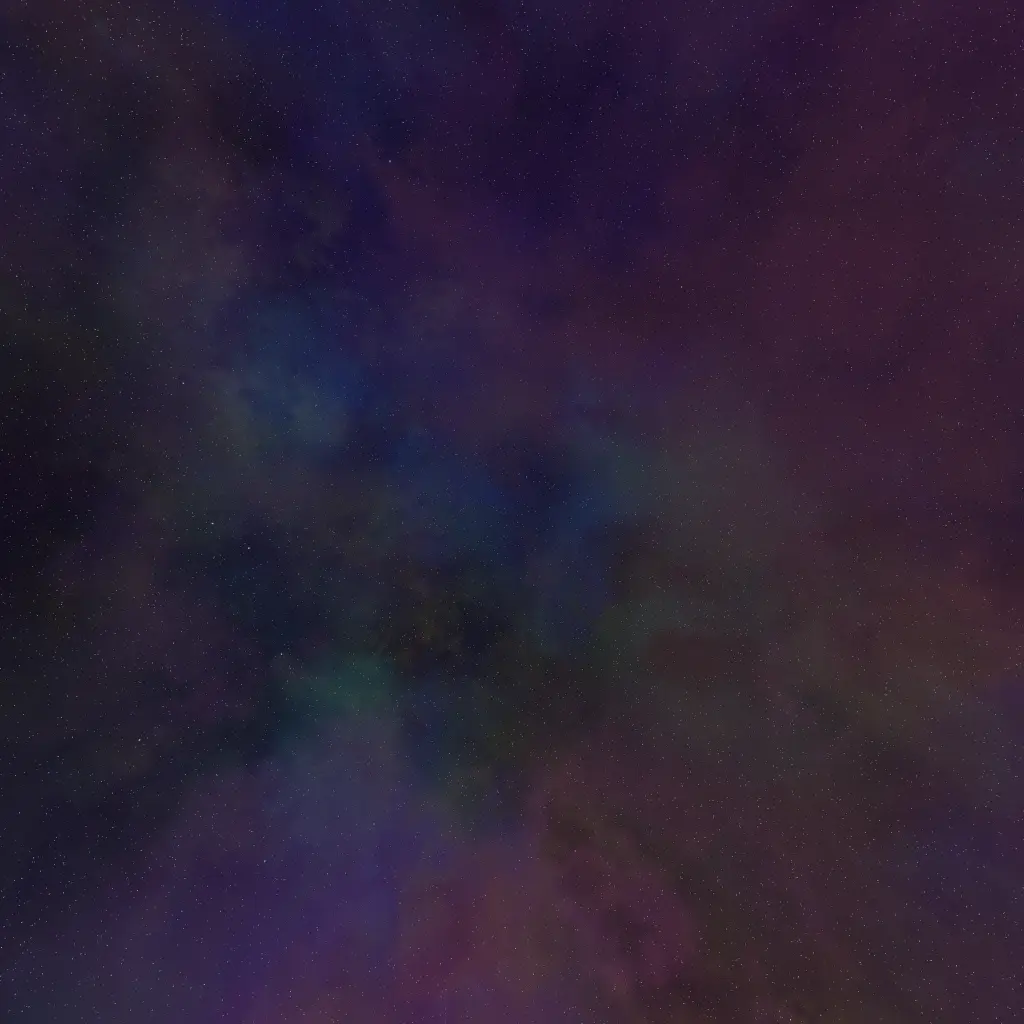
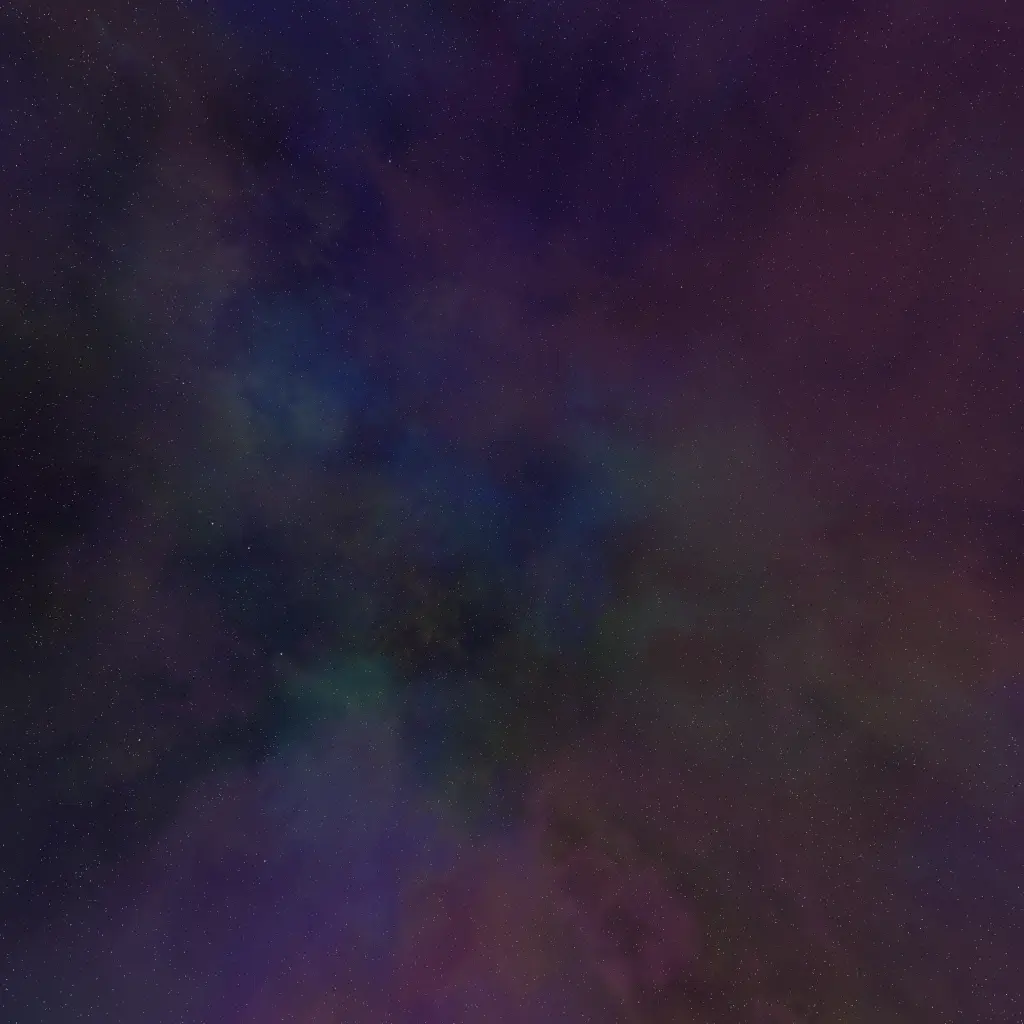
Removed The Sun from the BG and added contact info

diff --git a/src/components/MainBG.tsx b/src/components/MainBG.tsx
@@ -3,13 +3,20 @@ import { useEffect } from 'preact/hooks';
 import * as THREE from 'three'
 
 import { PDBLoader } from 'three/addons/loaders/PDBLoader.js';
+import { OrbitControls } from 'three/examples/jsm/controls/OrbitControls.js';
+import { color } from 'three/examples/jsm/nodes/Nodes.js';
 
 
 const pdbLoader = new PDBLoader();
 
 let camera: THREE.PerspectiveCamera, scene: THREE.Scene, renderer: THREE.WebGLRenderer;
 let estrogen: THREE.Group, river: THREE.Mesh;
+let game1: THREE.Mesh;
+let sceneObjects: THREE.Group;
+let controls: OrbitControls;
 const offset = new THREE.Vector3();
+
+const debugCam = false;
 
 let path: string = "/"
 
@@ -21,7 +28,7 @@ export function updatePath(newPath: string) {
     }
 }
 
-export function HomeBG() {
+export function MainBG() {
 
     useEffect(() => {
         const canvasBG: any = document.getElementById("bg")
@@ -46,7 +53,9 @@ export function HomeBG() {
 function setup(canvas: HTMLCanvasElement) {
     // Setup
     scene = new THREE.Scene();
+    sceneObjects = new THREE.Group();
 
+    // Main Renderer
     camera = new THREE.PerspectiveCamera(75, window.innerWidth / window.innerHeight, 0.1, 1000);
 
     renderer = new THREE.WebGLRenderer({
@@ -55,7 +64,7 @@ function setup(canvas: HTMLCanvasElement) {
 
     renderer.setPixelRatio(window.devicePixelRatio);
     renderer.setSize(window.innerWidth, window.innerHeight);
-    camera.position.setZ(30);
+    //camera.position.setZ(30);
     camera.position.setX(-3);
 
     renderer.render(scene, camera);
@@ -80,26 +89,10 @@ function setup(canvas: HTMLCanvasElement) {
     light2.position.set(- 1, - 1, 1);
     scene.add(light2);
 
-    // estrogen molecule
-    estrogen = new THREE.Group();
-    estrogen.scale.set(0.05, 0.05, 0.05)
-    estrogen.position.set(-30, 0, -50)
-    scene.add(estrogen);
-
-    // Avatar
-
-    const riverTexture = new THREE.TextureLoader().load('/avatar.png');
-    riverTexture.colorSpace = THREE.SRGBColorSpace
-    river = new THREE.Mesh(
-        new THREE.BoxGeometry(3, 3, 3),
-        new THREE.MeshBasicMaterial({ map: riverTexture })
-    );
-    river.position.z = -8;
-    river.position.x = 4;
-    scene.add(river);
-
-
-    loadMolecule("estrogen.pdb");
+    if (debugCam) {
+        controls = new OrbitControls(camera, renderer.domElement);
+    }
+    changeScene();
 
     window.addEventListener('resize', onWindowResize);
 }
@@ -129,32 +122,48 @@ function moveCamera() {
 
 function animate() {
 
-    requestAnimationFrame(animate);
-
     const time = Date.now() * 0.0004;
 
-    estrogen.rotation.y = time;
+    switch (path) {
+        case "/":
+            estrogen.rotation.y = time;
 
-    river.rotation.y = time;
-    river.rotation.x = time * 2
-    river.rotation.z = time * 0.5
+            river.rotation.y = time;
+            river.rotation.x = time * 2
+            river.rotation.z = time * 0.5
+            break;
+        case "/games":
+            game1.rotation.y = time;
+            break;
+
+        default:
+            break;
+    }
+
+    if (debugCam) {
+        controls.update();
+    }
 
     render();
 
 }
 
 function render() {
+    requestAnimationFrame(animate);
 
     renderer.render(scene, camera);
 
 }
 
 function changeScene() {
+    sceneObjects.clear();
     switch (path) {
         case "/":
+            setupHome()
             camera.rotation.y = 0
             break;
         case "/games":
+            setupGames()
             camera.rotation.y = -90
             break;
         case "/photography":
@@ -163,14 +172,50 @@ function changeScene() {
     }
 }
 
+function setupHome() {
+    // estrogen molecule
+    estrogen = new THREE.Group();
+    estrogen.scale.set(0.05, 0.05, 0.05)
+    estrogen.position.set(-30, 0, -50)
+    sceneObjects.add(estrogen);
 
-function loadMolecule(model: string) {
+    // Avatar
+
+    const riverTexture = new THREE.TextureLoader().load('/avatar.png');
+    riverTexture.colorSpace = THREE.SRGBColorSpace
+    river = new THREE.Mesh(
+        new THREE.BoxGeometry(3, 3, 3),
+        new THREE.MeshBasicMaterial({ map: riverTexture })
+    );
+    river.position.z = -8;
+    river.position.x = 4;
+    sceneObjects.add(river);
+
+    scene.add(sceneObjects)
+
+    render();
+    loadMolecule("estrogen.pdb", estrogen);
+}
+
+function setupGames() {
+    const game1Texture = new THREE.TextureLoader().load('https://placehold.co/1280x720/png')
+    game1 = new THREE.Mesh(
+        new THREE.PlaneGeometry(16, 9),
+        new THREE.MeshBasicMaterial({ map: game1Texture, color: '#FFFFFF' })
+    );
+    game1.position.set(-4, 0, -8)
+    sceneObjects.add(game1);
+
+    render();
+}
+
+function loadMolecule(model: string, group: THREE.Group) {
 
     const url = 'models/' + model;
 
-    while (estrogen.children.length > 0) {
+    while (group.children.length > 0) {
 
-        const object = estrogen.children[0];
+        const object = group.children[0];
         object.parent?.remove(object);
 
     }
@@ -212,7 +257,7 @@ function loadMolecule(model: string) {
             object.position.copy(position);
             object.position.multiplyScalar(75);
             object.scale.multiplyScalar(25);
-            estrogen.add(object);
+            group.add(object);
 
             const atom = json.atoms[i];
 
@@ -246,7 +291,7 @@ function loadMolecule(model: string) {
             object.position.lerp(end, 0.5);
             object.scale.set(5, 5, start.distanceTo(end));
             object.lookAt(end);
-            estrogen.add(object);
+            group.add(object);
 
         }
 

diff --git a/src/app.tsx b/src/app.tsx
@@ -4,8 +4,8 @@ export function App() {
 
   return (
     <>
-      <div class="grid grid-cols-[repeat(12,1fr)] w-screen w-full absolute mx-auto my-0 px-0 py-36 pl-16">
-        <TitleCard title="Welcome To My Website" subTitle="And Portfolio" />
+      <div class="md:grid md:grid-cols-[repeat(12,1fr)] w-screen w-full absolute mx-auto my-0 px-0 py-36 md:pl-16">
+        <TitleCard title="Welcome To My Website" subTitle="and portfolio" />
         <RightCard heading="✨ About Me ✨">
           <p class="text-gray-300 text-lg">
             Hello my name is River I'm trans and Non-Binary.<br />
@@ -21,14 +21,23 @@ export function App() {
         <LeftCard heading="🔧 Projects 🥽">
           <div class="m-6">
             <ul class="text-gray-300 text-lg list-disc">
-              <li>Dino Jam 2023 (On Going)</li>
+              <li><a href="https://cyps.itch.io/dasa" target="_blank">Dino Jam 2023</a> (Finished)</li>
             </ul>
           </div>
         </LeftCard>
 
-        <RightCard heading="🦾 Skills 👓">
+        <RightCard heading="✉ Contact and Site Info 👩💻">
+          <div class="text-gray-300 text-lg">
+            <h3 class="text-2xl">Contact</h3>
+            <p>Email: <a href="mailto:river@riverdot.tech">river@riverdot.tech</a></p>
+            <br />
+            <h3 class="text-2xl">Site Info</h3>
+            <p>Site Version: v7.0.0</p>
+            <a class="text-blue-400" href="https://github.com/RiverDot/riverdot.github.io" target="_blank">Github Repo</a>
+          </div>
 
         </RightCard>
+
 
       </div>
     </>

diff --git a/index.html b/index.html
@@ -1,13 +1,21 @@
 <!DOCTYPE html>
 <html lang="en">
-  <head>
-    <meta charset="UTF-8" />
-    <link rel="icon" type="image/svg+xml" href="/favacon.svg" />
-    <meta name="viewport" content="width=device-width, initial-scale=1.0" />
-    <title>River_Dot</title>
-  </head>
-  <body>
-    <div id="app"></div>
-    <script type="module" src="/src/main.tsx"></script>
-  </body>
+
+<head>
+  <meta charset="UTF-8" />
+  <link rel="icon" type="image/svg+xml" href="/favacon.svg" />
+
+  <link rel="preconnect" href="https://fonts.googleapis.com">
+  <link rel="preconnect" href="https://fonts.gstatic.com" crossorigin>
+  <link href="https://fonts.googleapis.com/css2?family=Orbitron:wght@400;700;800&family=Permanent+Marker&family=VT323&display=swap" rel="stylesheet"> 
+
+  <meta name="viewport" content="width=device-width, initial-scale=1.0" />
+  <title>River_Dot</title>
+</head>
+
+<body>
+  <div id="app"></div>
+  <script type="module" src="/src/main.tsx"></script>
+</body>
+
 </html>

diff --git a/src/main.tsx b/src/main.tsx
@@ -3,7 +3,7 @@ import Router from 'preact-router';
 import AsyncRoute from 'preact-async-route';
 import { App } from './app.tsx'
 import './index.css'
-import { HomeBG, updatePath } from './components/HomeBG.tsx';
+import { MainBG, updatePath } from './components/MainBG.tsx';
 import { NavBar } from './components/navbar/navbar.tsx';
 import { ReloadPrompt } from './ReloadPrompt.tsx';
 //import { Photography } from './pages/Photography/photography.tsx';
@@ -25,8 +25,7 @@ function Core() {
 
     return (
         <>
-            <HomeBG />
-            <NavBar />
+            <MainBG />
             <ReloadPrompt />
             <Router onChange={handleRoute}>
                 <App path="/" />

diff --git a/tailwind.config.js b/tailwind.config.js
@@ -5,7 +5,13 @@ export default {
     "./src/**/*.{js,ts,jsx,tsx}",
   ],
   theme: {
-    extend: {},
+    extend: {
+      fontFamily: {
+        "VT323": ['VT323', 'monospace'],
+        "PermanentMarker": ['Permanent Marker', 'cursive'],
+        "Orbitron": ['Orbitron', 'sans-serif']
+      }
+    },
   },
   plugins: [
     require('tailwind-scrollbar-hide')
